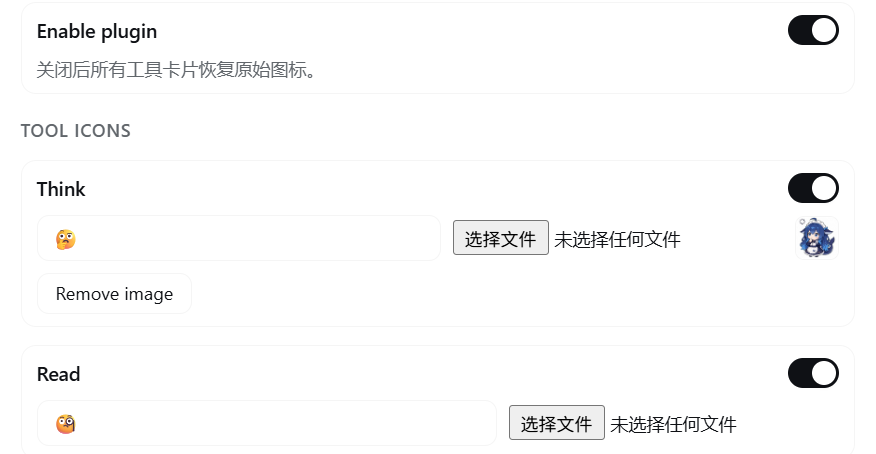
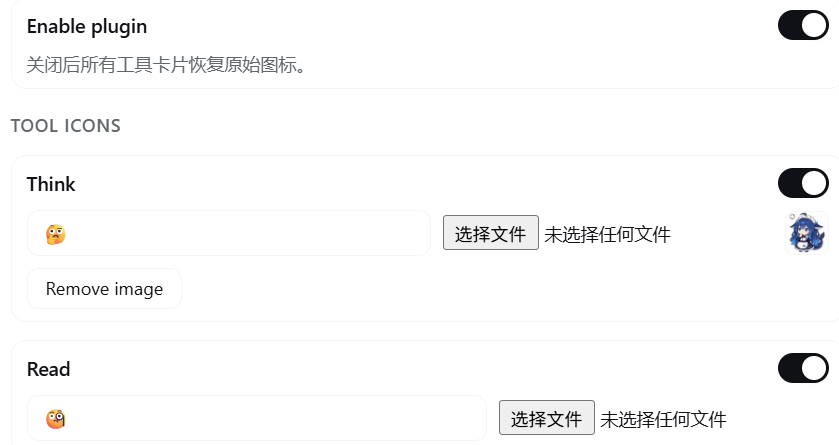
Trim and crop screenshots for cleaner README previews

diff --git a/README.md b/README.md
@@ -16,8 +16,8 @@ A [DeepSeek Harness](https://github.com/deepseek-ai/deepseek-harness) Web plugin
 
 ## Screenshots
 
-<img src="assets/tool-icons-working.png" width="280" alt="Tool icons rendered in the chat">
-<img src="assets/custom-image-icon.png" width="280" alt="Custom uploaded image used as a tool icon">
+<img src="assets/tool-icons-working.png" width="180" alt="Tool icons rendered in the chat">
+<img src="assets/custom-image-icon.png" width="180" alt="Custom uploaded image used as a tool icon">
 <img src="assets/settings-panel.png" width="560" alt="Tool emoji settings panel for customizing emoji and images">
 
 ## Installation

diff --git a/README.zh.md b/README.zh.md
@@ -16,8 +16,8 @@
 
 ## 效果图
 
-<img src="assets/tool-icons-working.png" width="280" alt="聊天中的工具 emoji 图标">
-<img src="assets/custom-image-icon.png" width="280" alt="自定义上传图片作为工具图标">
+<img src="assets/tool-icons-working.png" width="180" alt="聊天中的工具 emoji 图标">
+<img src="assets/custom-image-icon.png" width="180" alt="自定义上传图片作为工具图标">
 <img src="assets/settings-panel.png" width="560" alt="工具 emoji 设置面板，可自定义 emoji 和上传图片">
 
 ## 安装
